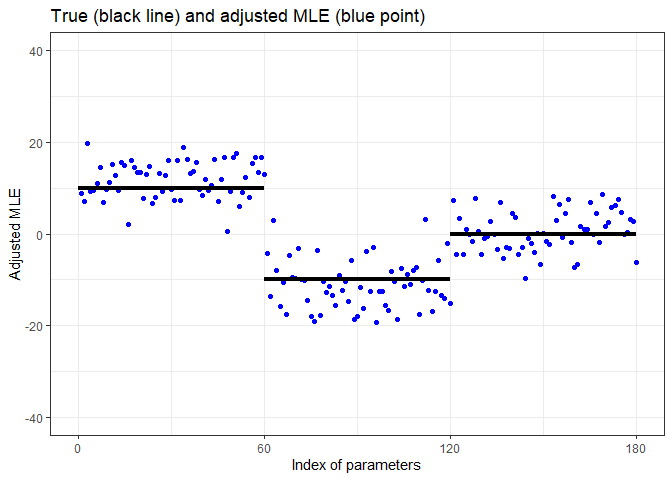
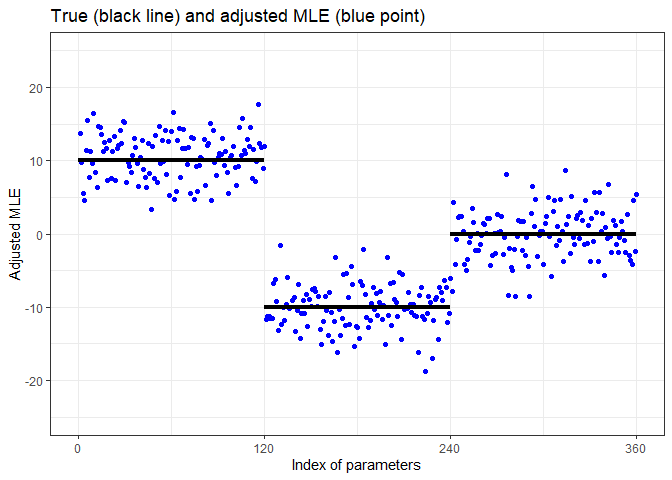
add SLOE algorithm

diff --git a/README.md b/README.md
@@ -24,14 +24,14 @@ consider the sample size n = 900. In such a case, the MLE returned by
 `glm()` contains a non-negligible bias.
 
 ``` r
-n <- 900
-p <- 180
+n <- 3000
+p <- 360
 
 set.seed(314)
 x <- rnorm(n * p, mean = 0, sd = sqrt(1/n))
 X <- matrix(x, nrow = n, ncol = p)
-beta <- c(rep(10, 60), rep(-10, 60), rep(0, 60))
-prob <- 1 / (1 + exp(-(X %*% beta)))
+beta <- c(rep(10, 120), rep(-10, 120), rep(0, 120))
+prob <- plogis(X %*% beta)
 y <- rbinom(n, 1, prob)
 
 fit <- glm(y ~ X, family = binomial, x = TRUE)
@@ -41,10 +41,10 @@ theme_set(theme_bw())
 df <- data.frame(index = seq_len(p), mle = coef(fit)[-1])
 ggplot(df, aes(index, mle)) +
   geom_point(color = "blue") +
-  annotate("segment", x = c(0, 60, 120), xend = c(60, 120, 180), 
+  annotate("segment", x = c(0, 120, 240), xend = c(120, 240, 360), 
            y = c(10, -10, 0), yend = c(10, -10, 0), linewidth = 1.5) +
-  scale_x_continuous(breaks = c(0, 60, 120, 180)) +
-  ylim(-40, 40) + xlab("Index of parameters") + ylab("MLE") +
+  scale_x_continuous(breaks = c(0, 120, 240, 360)) +
+  ylim(-25, 25) + xlab("Index of parameters") + ylab("MLE") +
   ggtitle("True (black line) and MLE (blue point)")
 ```
 
@@ -64,10 +64,10 @@ fit_adj <- adjustMLE(fit)
 df <- data.frame(index = seq_len(p), mle = coef(fit_adj)[-1])
 ggplot(df, aes(index, mle)) +
   geom_point(color = "blue") +
-  annotate("segment", x = c(0, 60, 120), xend = c(60, 120, 180), 
+  annotate("segment", x = c(0, 120, 240), xend = c(120, 240, 360), 
            y = c(10, -10, 0), yend = c(10, -10, 0), linewidth = 1.5) +
-  scale_x_continuous(breaks = c(0, 60, 120, 180)) +
-  ylim(-40, 40) + xlab("Index of parameters") + ylab("Adjusted MLE") +
+  scale_x_continuous(breaks = c(0, 120, 240, 360)) +
+  ylim(-25, 25) + xlab("Index of parameters") + ylab("Adjusted MLE") +
   ggtitle("True (black line) and adjusted MLE (blue point)")
 ```
 
